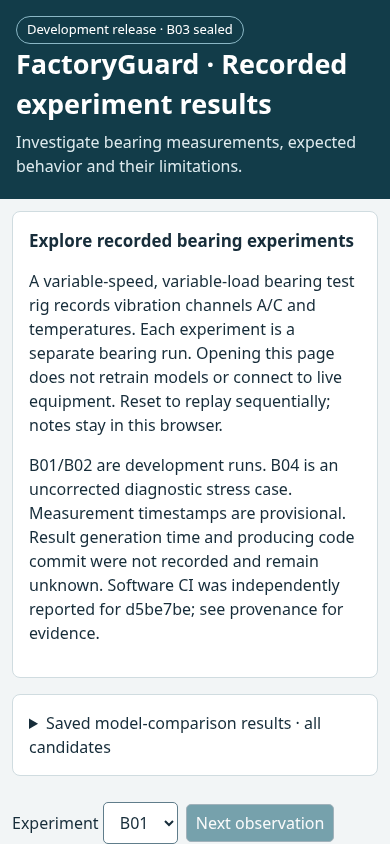
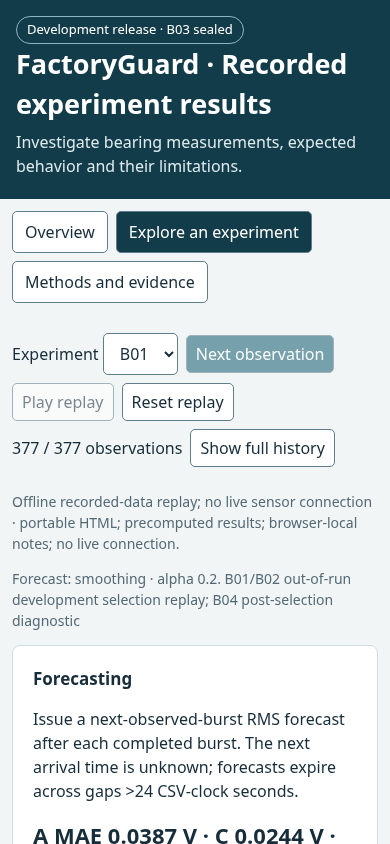
Simplify reviewer views and harden report provenance and local notes

diff --git a/site/reviewer.js b/site/reviewer.js
@@ -1,0 +1,47 @@
+// Presentation and local notebook only. Numerical evidence comes from pinned Python outputs.
+const sourceManifest=meta?.reviewer_source_manifest||embedded.metadata.reviewer_source_manifest||{};
+const snapshot=sourceManifest.snapshot_id||sourceManifest.files?.['replay.json']||null;
+const volatileNotes=new Map();let storageWarning='';
+function noteKey(r=run){return 'factoryguard-notes-v2-'+(snapshot||'unidentified-session')+'-'+r;}
+function legacyKey(){return 'factoryguard-notes-'+(meta.derived_csv_sha256||meta.reference_sha256||'legacy')+'-'+run;}
+function readNotes(key){if(volatileNotes.has(key))return volatileNotes.get(key);try{const value=JSON.parse(localStorage.getItem(key)||'[]');if(!Array.isArray(value))throw Error('Invalid stored notes');return value;}catch(e){storageWarning='Browser storage is unavailable or unreadable. Notes stay in this tab only; export a report before closing.';return [];}}
+notesAction=async function(action,body={}){const key=noteKey();let list=readNotes(key);if(action==='save')list=[...list,{id:Date.now(),...body}];if(action==='delete')list=list.filter(n=>n.id!==body.id);if(action){volatileNotes.set(key,list);try{if(!snapshot)throw Error('Unknown snapshot');localStorage.setItem(key,JSON.stringify(list));}catch(e){storageWarning='Notes are held in this tab only. Export a report before closing; browser storage is unavailable.';}}return list;};
+const originalShowNotes=showNotes;
+showNotes=async function(){await originalShowNotes();$('noteMode').textContent=storageWarning||'Notes are browser-local, isolated by result snapshot and experiment. They do not alter published results.';const old=readNotes(legacyKey());if(old.length){const box=document.createElement('div');box.className='notice';box.textContent=`${old.length} legacy notes found. Their snapshot is unknown; they have not been mixed into this notebook. `;const button=document.createElement('button');button.textContent='Export legacy notes';button.onclick=()=>downloadJSON({legacy_snapshot:'unknown',experiment:run,user_notes:old},'FactoryGuard-legacy-notes.json');box.append(button);$('notes').prepend(box);}};
+function downloadJSON(value,name){const url=URL.createObjectURL(new Blob([JSON.stringify(value,null,2)],{type:'application/json'}));const a=document.createElement('a');a.href=url;a.download=name;a.click();setTimeout(()=>URL.revokeObjectURL(url),1000);}
+function investigationReport(){const p=period(),events=state.events.slice(p.start-1,p.stop);return {title:'FactoryGuard investigation — recorded data',experiment:run,selected_period:{...p,first_clock:events[0].source_time,last_clock:events.at(-1).source_time},source_manifest:meta.reviewer_source_manifest||null,website_build_commit:meta.reviewer_source_manifest?.website_build_commit??null,result_code_commit:meta.reviewer_source_manifest?.result_code_commit??null,result_generation_time:meta.reviewer_source_manifest?.result_generation_time??null,model_settings:meta.models?.[run]??null,software_version:meta.software_version??null,reference_identifiers:{sha256:meta.reference_sha256??null,sources:[...new Set(events.map(e=>e.context_reference?.source_run).filter(Boolean))]},limitations:meta.clock+'; descriptive development evidence; no healthy reference or confirmed damage. Coarse bins do not prove identical conditions.',machine_generated_evidence:events,user_notes:notebook.filter(n=>n.start<=p.stop&&n.stop>=p.start)};}
+$('report').onclick=()=>coordinated(async()=>{await showNotes();downloadJSON(investigationReport(),'FactoryGuard-'+run+'-investigation.json');});
+function friendly(group){const family={persistence:'Persistence (repeat last RMS)',smoothing:'Exponential smoothing',ridge:'Ridge regression',extra:'Randomized trees',boost:'Gradient-boosted trees',xgb:'XGBoost trees'};const [base,...rest]=group.split('_');return (family[base]||group)+(rest.length?' · '+rest.join(' ').replace('delta','change forecast').replace('direct','level forecast'):'');}
+function view(name){stop();document.querySelectorAll('[data-view]').forEach(el=>el.hidden=el.dataset.view!==name);document.querySelectorAll('[data-nav]').forEach(b=>b.setAttribute('aria-pressed',String(b.dataset.nav===name)));}
+async function enhance(){if(!state||!meta){setTimeout(enhance,20);return;}
+ const style=document.createElement('style');style.textContent='[hidden]{display:none!important}:focus-visible{outline:3px solid #137d91;outline-offset:3px}nav{display:flex;gap:8px;flex-wrap:wrap;margin-bottom:20px}nav [aria-pressed=true]{background:#123c49;color:white}input,textarea{font:inherit;max-width:100%}.lead{max-width:850px;font-size:18px}#chartError{max-width:850px}.toolbar{position:static}.card{padding:20px}#changes{font:inherit;line-height:1.6}#periodSummary{background:#edf5f6;padding:12px}.summary{margin-top:12px}';document.head.append(style);
+ const main=document.querySelector('main');const oldChildren=[...main.children];const nav=document.createElement('nav');nav.setAttribute('aria-label','Dashboard views');nav.innerHTML=['Overview','Explore an experiment','Methods and evidence'].map((label,i)=>`<button data-nav="${i}">${label}</button>`).join('');main.prepend(nav);
+ const panels=[0,1,2].map(i=>{const el=document.createElement('div');el.dataset.view=i;main.append(el);return el;});oldChildren.forEach(el=>panels[1].append(el));
+ const intro=panels[1].querySelector('section');intro.remove();
+ const comparison=$('comparison');panels[2].append(comparison);panels[2].append($('metadata').closest('details'));
+ const methods=document.createElement('section');methods.className='card';methods.innerHTML='<h2>How to read the evidence</h2><p>MAE is the average absolute forecast error in volts: smaller is better. Persistence predicts the next observed RMS by repeating the current value. A and C are vibration sensor channels on one bearing run.</p><p>Common-pair campaign scores compare methods on identical eligible pairs. Broad replay scores include all available scored pairs and can have different counts. Next observed burst is not a fixed-time horizon. Forecasts expire across gaps over 24 provisional CSV-clock seconds.</p><p>Reference support counts other-run observations in coarse speed/load bins, with warm-up separate. Fewer than 20 finite values withholds comparisons. A supported comparison does not prove identical conditions or health. Sudden evidence is current minus previous; sustained evidence compares three observations with the preceding three in the same bin. Gaps, bin transitions and run boundaries reset history.</p>';panels[2].prepend(methods);
+ const metrics=savedSelection.method_results;const bestFamilies=new Map();for(const m of metrics){const family=m.group.split('_')[0];if(!bestFamilies.has(family)||m.macro_mae_ratio<bestFamilies.get(family).macro_mae_ratio)bestFamilies.set(family,m);}const summary=[...bestFamilies.values()].map(m=>`<tr><td>${esc(friendly(m.group))}</td><td>${(100*m.macro_mae_skill).toFixed(2)}%</td></tr>`).join('');
+ panels[0].innerHTML='<section class="card"><h2>What changed, and does the operating context explain it?</h2><p class="lead">FactoryGuard helps engineers investigate recorded bearing measurements alongside speed, load, temperature and measurement quality.</p><p>A variable-speed, variable-load test rig recorded separate bearing runs. B01 and B02 support development; B04 is an uncorrected diagnostic stress case. A/C are vibration channels, not separate machines.</p><p><strong>Exponential smoothing was selected.</strong> It averages recent RMS with earlier history. The saved selection procedure reports <strong>12.83% equal-run/channel MAE improvement</strong> over persistence across reciprocal B01/B02 development evaluations. This is development selection performance, not final held-out performance or fault-detection accuracy. Direction-specific settings remain intact; final pooled alpha 0.5 is a separate configuration.</p><button class="primary" id="exploreAction">Explore measurements</button><p>Recorded experiment results · no retraining or live equipment connection.</p></section><section class="card"><h2>Model comparison</h2><p>Percentage reduction in MAE relative to persistence; negative means worse. Each run/channel contributes equally rather than by amplitude or record count.</p><div class="scroll"><table><tr><th>Method / inputs</th><th>Development MAE improvement</th></tr>'+summary+'</table></div></section><section class="card"><h2>Limits of the evidence</h2><p>Only two independent development bearings. No verified healthy reference, damage labels, failure probabilities or RUL. Timestamp meaning and CSV/MAT alignment remain provisional; range warnings and acquisition gaps are retained. Producing commit and result-generation time were not recorded and remain unknown.</p></section>';
+ $('exploreAction').onclick=()=>view('1');nav.querySelectorAll('button').forEach(b=>b.onclick=()=>view(b.dataset.nav));
+ const errors=document.createElement('section');errors.className='card';errors.innerHTML='<h2>Saved development errors · common pairs</h2><p>Best variant per family is summarized above; all variants, including unsuccessful ones, are in Methods and evidence. Smoothing has the lowest saved equal-run/channel MAE ratio and qualified under the frozen selection rule. The table below uses reciprocal outer development evaluation, not pooled-model performance.</p><div class="scroll"><table><tr><th>Evaluation run</th><th>Channel</th><th>Method</th><th>n</th><th>MAE (V)</th><th>RMSE (V)</th></tr>'+reviewerMetrics.filter(r=>r.partition==='outer_evaluation'&&r.coverage==='common'&&['smoothing','persistence'].includes(r.group)).map(r=>`<tr><td>${r.evaluation_run}</td><td>${r.channel}</td><td>${esc(friendly(r.group))}</td><td>${r.n}</td><td>${Number(r.mae_v).toFixed(4)}</td><td>${Number(r.rmse_v).toFixed(4)}</td></tr>`).join('')+'</table></div>';panels[0].insertBefore(errors,panels[0].lastElementChild);
+ $('metricFilter').oninput=()=>{const q=$('metricFilter').value.toLowerCase();comparison.querySelectorAll('tr').forEach((r,i)=>{if(i)r.hidden=!r.textContent.toLowerCase().includes(q);});};
+ const showAll=document.createElement('button');showAll.id='showAll';showAll.textContent='Show full history';showAll.onclick=()=>coordinated(async()=>{stop();cursors[run]=embedded.states[run].total;state=await api('/api/state?run='+run);focus=-1;render();});document.querySelector('.toolbar').append(showAll);
+ // Chart hover selects a clock-nearest observation; inspection updates evidence only.
+ const hover=document.createElement('p');hover.id='hoverValues';hover.className='notice';hover.textContent='Hover or select a chart position to read measurements. Use the observation slider or history rows with a keyboard.';document.querySelector('.grid').after(hover);
+ for(const id of ['chartA','chartC','chartThermal','chartSpeed','chartLoad','chartError']){const el=$(id);const indexAt=e=>{const svg=el.querySelector('svg');if(!svg||!state.events.length)return -1;const rect=svg.getBoundingClientRect(),ratio=Math.max(0,Math.min(1,((e.clientX-rect.left)/rect.width*640-64)/(640-64-15)));const ev=state.events,start=clock(ev[0].source_time),target=start+ratio*(clock(ev.at(-1).source_time)-start);return ev.reduce((best,row,i)=>Math.abs(clock(row.source_time)-target)<Math.abs(clock(ev[best].source_time)-target)?i:best,0);};el.onpointermove=e=>{const i=indexAt(e);if(i<0)return;const row=state.events[i];hover.textContent=`#${row.measurement_id} · ${row.source_time} · RMS A/C ${row.rms_v.map(v=>fmt(v)).join(' / ')} V · settled forecast ${row.resolved?.forecast_v?.map(v=>fmt(v)).join(' / ')||'unavailable'} V · T1/T2 above ambient ${fmt(row.observation.feature__T1_above_room_c,1)} / ${fmt(row.observation.feature__T2_above_room_c,1)} °C · speed ${fmt(row.observation.context__measured_speed_rpm,0)} rpm · static/dynamic load ${fmt(row.observation.context__measured_static_load_n,0)} / ${fmt(row.observation.context__measured_dynamic_peak_n,0)} N`;};el.onclick=e=>{const i=indexAt(e);if(i>=0){focus=i;$('inspect').value=i;inspect();}};}
+ const commands=document.createElement('label');commands.innerHTML='<input type="checkbox" id="commands"> Show commanded speed/load';$('chartSpeed').parentNode.prepend(commands);const originalPlot=plot;plot=function(id,series,channel){return originalPlot(id,series.filter(s=>$('commands').checked||!s.name.startsWith('Commanded')),channel);};
+ const raw=$('raw').closest('details');panels[2].append(raw);raw.classList.add('card');
+ panels[2].append($('groups').closest('section'));
+ const historySection=$('history').closest('section'),historyPanel=document.createElement('details');historyPanel.id='historyPanel';historyPanel.className='card';historyPanel.innerHTML='<summary>Inspect recent observations · keyboard-accessible history</summary>';historySection.before(historyPanel);historyPanel.append(historySection);historySection.classList.remove('card');
+ // Keep selected evidence next to the charts; detailed fields stay expandable.
+ const notebookCard=$('note').closest('section');const changes=$('changes');$('notices').parentNode.append(changes.previousElementSibling,changes);
+ const pick=document.createElement('button');pick.textContent='Use selected observation as period start';pick.onclick=()=>$('periodStart').value=focus+1;const end=document.createElement('button');end.textContent='Use as period end';end.onclick=()=>$('periodStop').value=focus+1;notebookCard.prepend(pick,end);
+ const review=document.createElement('button');review.id='reviewPeriod';review.textContent='Review selected period';const periodSummary=document.createElement('div');periodSummary.id='periodSummary';periodSummary.setAttribute('aria-live','polite');notebookCard.insertBefore(review,$('note').parentNode);notebookCard.insertBefore(periodSummary,review.nextSibling);review.onclick=()=>coordinated(async()=>{const p=period(),ev=state.events.slice(p.start-1,p.stop);periodSummary.textContent=`Observations ${p.start}–${p.stop}: ${ev.length} bursts, ${ev[0].source_time} to ${ev.at(-1).source_time} (provisional). ${ev.filter(e=>e.interval_s>24).length} gap boundaries, ${ev.filter(e=>e.notices.some(n=>n.kind==='measurement')).length} bursts with measurement notices. Reference support at first / last observation: ${ev[0].context_reference.status} (n=${ev[0].context_reference.n}) / ${ev.at(-1).context_reference.status} (n=${ev.at(-1).context_reference.n}). Inspect individual observations for missing values, operating transitions and window-specific evidence; a period does not establish a single operating condition.`;});
+ const summaryCards=document.querySelector('.summary');summaryCards.lastElementChild.remove();summaryCards.style.gridTemplateColumns='1fr';
+ $('chartError').parentNode.parentNode.append($('chartError').parentNode);
+ let renderedRun=run;const originalRender=render;render=function(){originalRender();$('periodSummary').textContent='Select observation boundaries and review the period.';if(renderedRun!==run){$('periodStart').value=1;$('periodStop').value=1;renderedRun=run;}document.querySelectorAll('tr[data-index]').forEach(el=>{el.tabIndex=0;el.setAttribute('aria-label','Inspect observation '+state.events[+el.dataset.index].measurement_id);el.onkeydown=e=>{if(e.key==='Enter'||e.key===' '){e.preventDefault();el.click();}};});};
+ const originalInspect=inspect;inspect=function(){originalInspect();const e=state.events[focus];if(e){$('reference').querySelectorAll('p').forEach(p=>{p.textContent=p.textContent.replaceAll('A_ac_rms_v','A RMS (V)').replaceAll('C_ac_rms_v','C RMS (V)').replaceAll('T1_above_room_c','T1 above ambient (°C)').replaceAll('T2_above_room_c','T2 above ambient (°C)');});$('detail').insertAdjacentHTML('beforeend',`<p>Measured speed ${fmt(e.observation.context__measured_speed_rpm,0)} rpm · static load ${fmt(e.observation.context__measured_static_load_n,0)} N · dynamic peak ${fmt(e.observation.context__measured_dynamic_peak_n,0)} N</p>`);}};
+ render();await showNotes();view('0');document.body.dataset.reviewerReady='true';
+ $('commands').onchange=()=>render();
+}
+enhance();

diff --git a/scripts/build_reviewer_site.py b/scripts/build_reviewer_site.py
@@ -18,6 +18,7 @@ def build(output):
             raise ValueError(f'Source integrity failed: {name}')
     payload = json.loads((source / 'replay.json').read_text())
     manifest['website_build_commit'] = subprocess.check_output(['git','rev-parse','HEAD'],cwd=ROOT,text=True).strip()
+    manifest['snapshot_id'] = manifest['files']['replay.json']
     payload['metadata']['reviewer_source_manifest'] = manifest
     with (source / 'development_metrics.csv').open(newline='', encoding='utf-8') as stream:
         rows = list(csv.DictReader(stream))
@@ -25,12 +26,15 @@ def build(output):
         rows += list(csv.DictReader(stream))
     columns = ['training_run','evaluation_run','group','candidate','partition','coverage','channel','n','mae_v','rmse_v','mae_skill']
     cells = lambda row: ''.join('<td>'+html.escape(str(row[c]))+'</td>' for c in columns)
-    evidence = '<details class="card"><summary>Saved model-comparison results · all candidates</summary><p>Development selection results, not an independent final test. Negative skill means worse than persistence. Training and evaluation partitions and common-pair coverage are explicit. Historical direction-specific settings are preserved; final pooled alpha 0.5 is not substituted.</p><div class="scroll"><table><tr>'+''.join('<th>'+c+'</th>' for c in columns)+'</tr>'+''.join('<tr>'+cells(row)+'</tr>' for row in rows)+'</table></div></details>'
+    evidence = '<details class="card" id="comparison"><summary>Full saved model-comparison results · all candidates</summary><p>Development selection results, not an independent final test. Negative skill means worse than persistence. Training and evaluation partitions and common-pair coverage are explicit. Historical direction-specific settings are preserved; final pooled alpha 0.5 is not substituted.</p><label>Filter results <input id="metricFilter" type="search" placeholder="e.g. smoothing or B04"></label><div class="scroll"><table><tr>'+''.join('<th>'+c+'</th>' for c in columns)+'</tr>'+''.join('<tr>'+cells(row)+'</tr>' for row in rows)+'</table></div></details>'
     page = dashboard(payload)
+    page = page.replace('start().then(showNotes)', 'start()')
     page = page.replace('precomputed full replay embedded, no persistence or live connection.', 'precomputed results; browser-local notes; no live connection.')
     page = page.replace('let cursors={};','let cursors=Object.fromEntries(Object.entries(embedded.states).map(([r,s])=>[r,s.total]));')
     page = page.replace('<h1>FactoryGuard</h1>','<h1>FactoryGuard · Recorded experiment results</h1>')
     page = page.replace('<main>','<main><section class="card"><h2>Explore recorded bearing experiments</h2><p>A variable-speed, variable-load bearing test rig records vibration channels A/C and temperatures. Each experiment is a separate bearing run. Opening this page does not retrain models or connect to live equipment. Reset to replay sequentially; notes stay in this browser.</p><p>B01/B02 are development runs. B04 is an uncorrected diagnostic stress case. Measurement timestamps are provisional. Result generation time and producing code commit were not recorded and remain unknown. Software CI was independently reported for d5be7be; see provenance for evidence.</p></section>'+evidence,1)
+    selection=json.loads((source/'selection.json').read_text())
+    page=page.replace('</body>', '<script>const reviewerMetrics='+json.dumps(rows)+';const savedSelection='+json.dumps(selection)+';</script><script>'+ (ROOT/'site/reviewer.js').read_text(encoding='utf-8')+'</script></body>')
     output=Path(output)
     output.mkdir(parents=True,exist_ok=True)
     (output/'index.html').write_text(page,encoding='utf-8')

diff --git a/tests/test_reviewer_site.py b/tests/test_reviewer_site.py
@@ -21,6 +21,10 @@ class ReviewerSiteTests(unittest.TestCase):
             self.assertEqual(manifest['experiments'],['B01','B02','B04'])
             self.assertIsNone(manifest['result_code_commit'])
             payload=json.loads((ROOT/'site/source/replay.json').read_text())
+            exported=json.loads(page.split('const embedded=',1)[1].split(';\nlet meta',1)[0])
+            self.assertEqual(exported['states'],payload['states'])
+            self.assertEqual(exported['metadata']['models'],payload['metadata']['models'])
+            self.assertIn('snapshot_id',exported['metadata']['reviewer_source_manifest'])
             self.assertEqual(len(payload['states']['B01']['events']),377)
             for state in payload['states'].values():
                 self.assertNotIn('notes',state)

diff --git a/docs/reviewer_site.md b/docs/reviewer_site.md
@@ -1,5 +1,28 @@
 # Reviewer site (prepared, unpublished)
 
+The dashboard opens on **Overview**: purpose, data coverage, the saved 12.83%
+equal-run/channel development-selection MAE improvement, best variant per method
+family, and rounded direction-specific errors. **Explore an experiment** opens
+populated histories with optional replay, chart hover/click inspection, keyboard
+history, measured context, period selection and notes. **Methods and evidence**
+holds the filterable complete comparison table, reference coverage, selected raw
+fields and provenance. Commanded values are optional.
+
+Report downloads include the actual source manifest, website-build commit,
+experiment-specific model settings and available reference identifiers. Unknown
+producing commit, generation time or reference hash remain null. Notes use the
+replay snapshot SHA256 and experiment as their namespace. Legacy notes are neither
+merged nor deleted; an explicit legacy-note export is offered. If browser storage
+is blocked, notes remain in the current tab with a warning and report export.
+
+Run `node scripts/verify_reviewer_workflow.cjs` after building to test the views,
+keyboard history, periods, provenance, missing metadata, legacy/snapshot-isolated
+notes, blocked storage, reset and experiment switching. It starts a local static
+server automatically. Both CI operating systems install Playwright Chromium and
+run it. The complete site remains the `factoryguard-reviewer-site` artifact.
+The Python site test compares every exported event and model setting exactly
+against the pinned snapshot; no numerical/evidence calculation is replaced.
+
 Build with `python scripts/build_reviewer_site.py --output reports/local/reviewer-site`.
 Open the generated index.html directly, or preview under a Pages-like subpath:
 `python -m http.server 8080 --directory reports/local`, then visit

diff --git a/docs/project_status.md b/docs/project_status.md
@@ -1,5 +1,18 @@
 # Current project status: development release v3
 
+## Simplified reviewer dashboard
+
+Three views now separate overview, measurement exploration and methods/evidence.
+Saved 12.83% improvement is explicitly equal-run/channel development selection,
+not held-out performance. All original measurements, predictions and exclusions
+are unchanged (exact exported-event comparison). Reports include available source
+manifest/build/model/reference metadata; unknown fields stay null. Browser notes
+are snapshot-isolated, with explicit legacy export and blocked-storage fallback.
+116 tests passed; desktop/mobile keyboard, period, report and note workflows passed.
+Windows/Ubuntu browser checks are now in CI; final remote results still require
+verification through the other GitHub integration. Site remains unpublished and
+available as the complete `factoryguard-reviewer-site` CI artifact.
+
 ## Investigation application follow-up
 
 The investigation-reliability branch now adds six-observation same-bin descriptive
